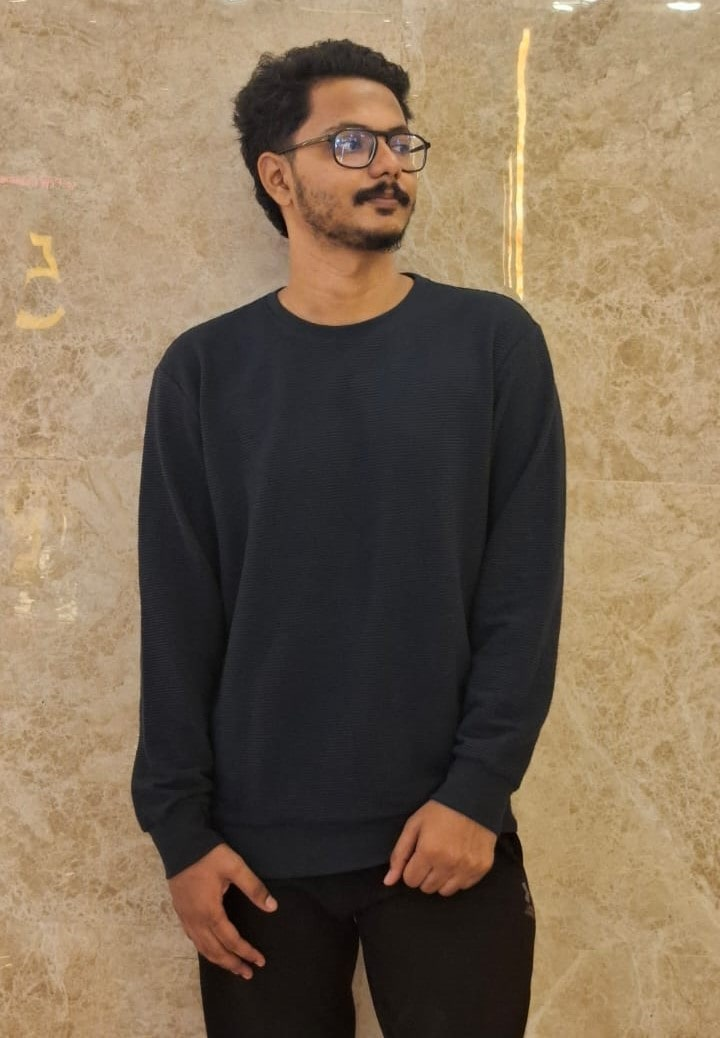
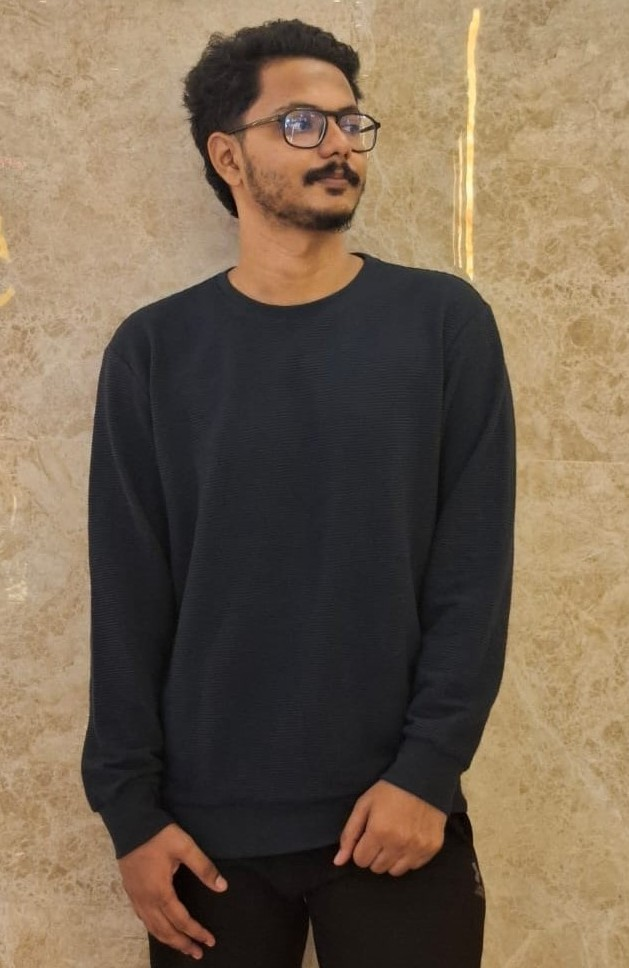
small chnaged

diff --git a/index.html b/index.html
@@ -1151,7 +1151,7 @@
         <div class="about-content">
           <div class="about-img">
             <img
-              src="./assests/images/unaispc2.jpg"
+              src="./assests/images/unaispc.jpg"
               alt="Profile Picture"
             />
           </div>
@@ -1749,8 +1749,8 @@ A professional business website designed for a workforce solutions platform. Foc
             </div>
             <div class="contact-item">
               <i class="fab fa-linkedin"></i>
-              <a href="https://linkedin.com/in/johndoe" target="_blank"
-                >linkedin.com/in/johndoe</a
+              <a href="https://www.linkedin.com/public-profile/settings?trk=d_flagship3_profile_self_view_public_profile" target="_blank"
+                >linkedin.com/in/Ziyauddeen Unais</a
               >
             </div>
             <!-- <div class="contact-item">
@@ -1762,7 +1762,7 @@ A professional business website designed for a workforce solutions platform. Foc
             <div class="contact-item">
               <i class="fab fa-whatsapp"></i>
               <a href="https://wa.me/1234567890" target="_blank"
-                >+1 (234) 567-890</a
+                >+971 52425 6246</a
               >
             </div>
           </div>
